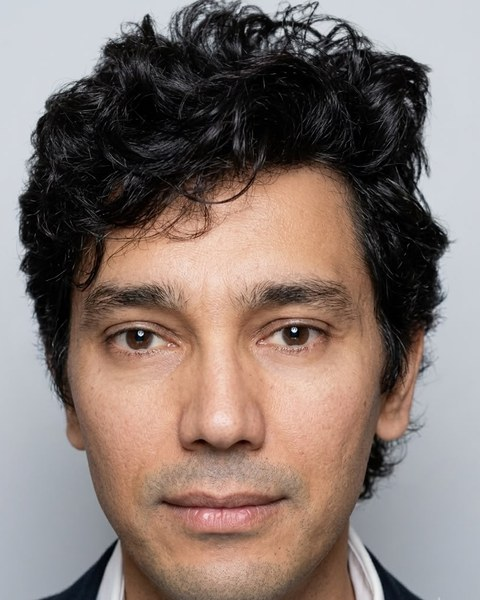
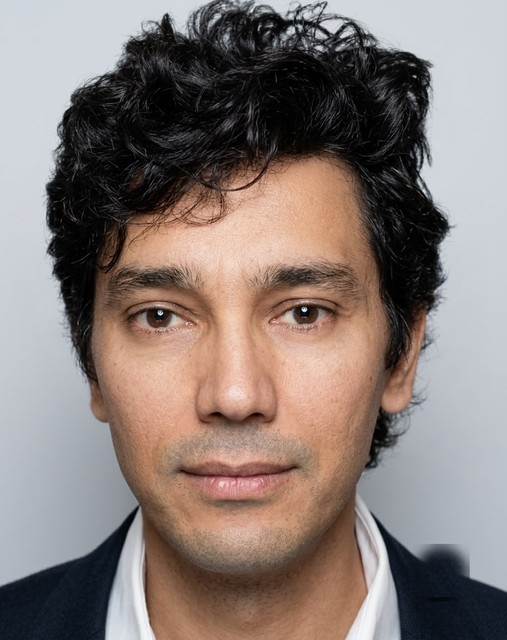
Section À propos : photo entière (non rognée), filigrane gommé

diff --git a/index.html b/index.html
@@ -249,7 +249,7 @@
 
   <section id="apropos" class="section section-alt">
     <div class="about-wrap">
-      <img class="about-photo" src="assets/portrait.jpg" alt="Portrait de Hassane Bakkaoui">
+      <img class="about-photo" src="assets/portrait.jpg?v=2" alt="Portrait de Hassane Bakkaoui">
       <div class="about-text">
         <h2 class="section-title">À propos</h2>
         <p>Chercheur indépendant, je travaille à l'intersection de la <strong>physique
